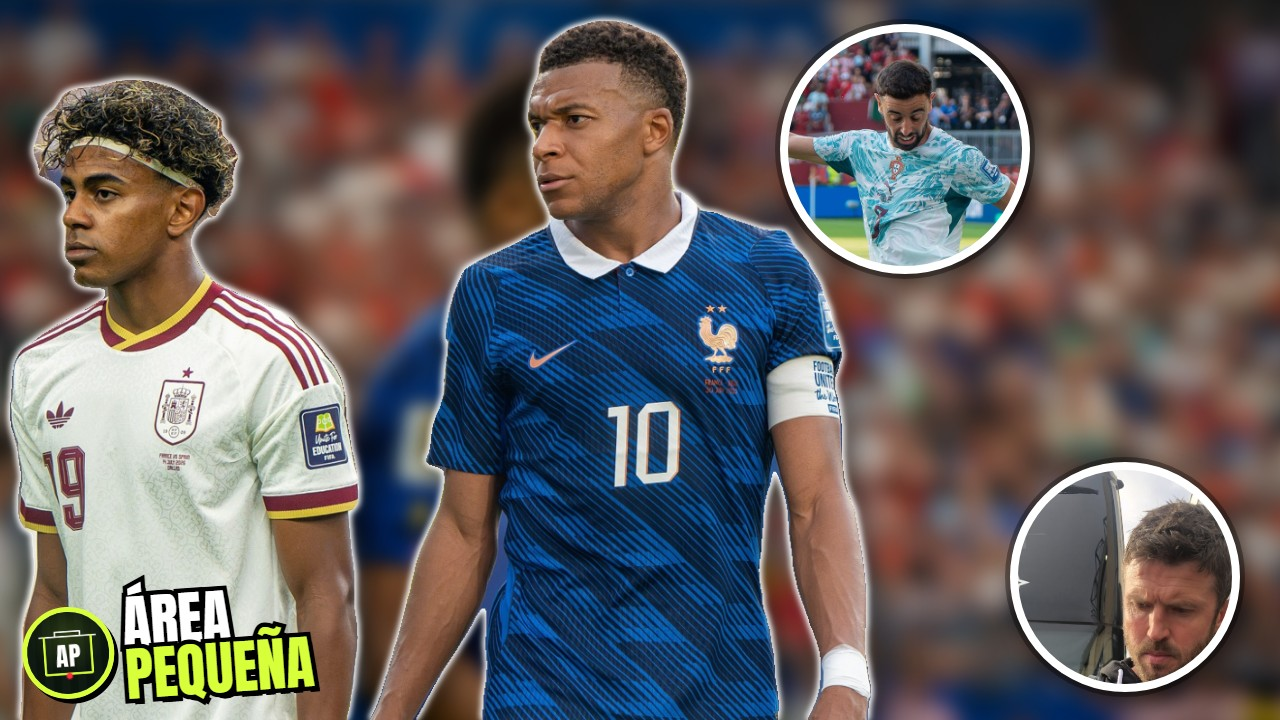
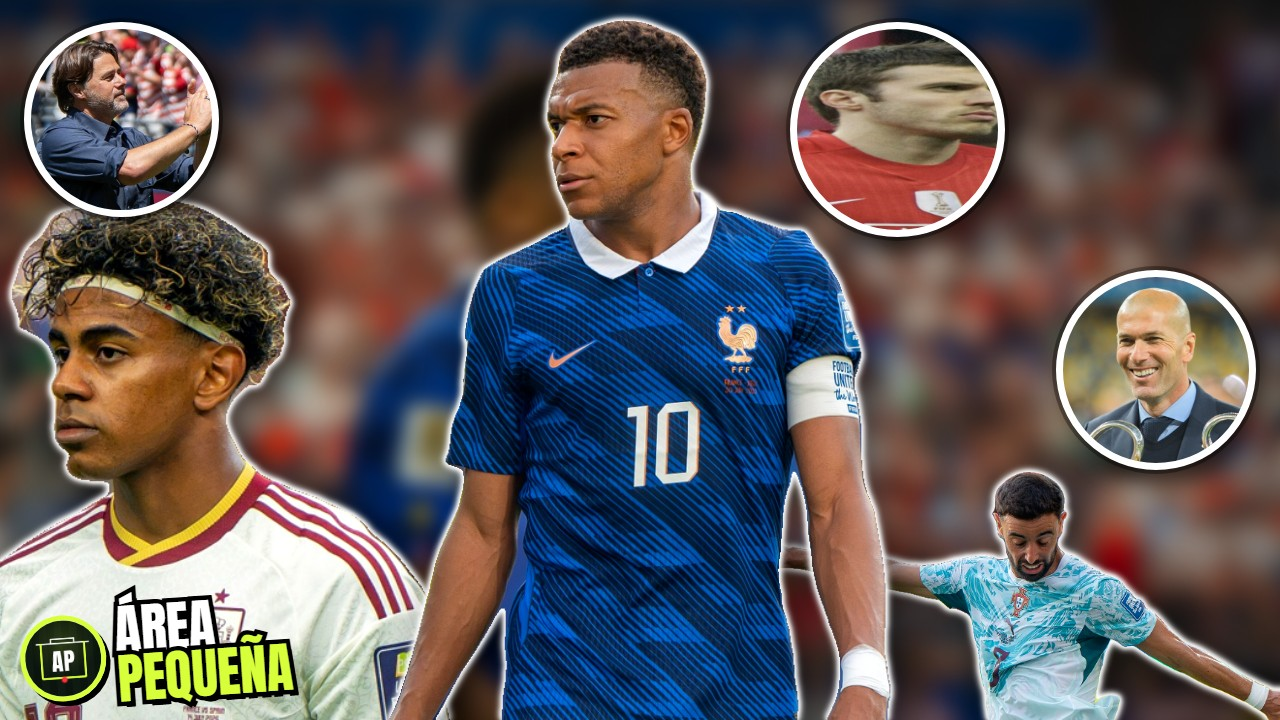
longo: titulo estilo Cracks, thumbnail v2 (3 jogadores, rostos nos circulos, escudos), prompt do Flow; fotos melhores do Carrick

diff --git a/modelo/thumb-longo.html b/modelo/thumb-longo.html
@@ -5,55 +5,55 @@
 @font-face{font-family:Inter;src:url(fonts/Inter.ttf);font-weight:100 900}
 *{margin:0;padding:0;box-sizing:border-box}
 html,body{width:1280px;height:720px;overflow:hidden;background:#0a0f0c}
-#fundo{position:absolute;inset:-40px;background:url(../assets/estadio-fundo.jpg) center/cover;filter:blur(var(--blur,9px)) saturate(1.15) brightness(.9)}
-#cor{position:absolute;inset:0;background:radial-gradient(ellipse at 50% 55%,transparent 45%,rgba(0,0,0,.45))}
-.pessoa{position:absolute;bottom:0;filter:drop-shadow(0 0 0 #fff) drop-shadow(0 0 3px #fff) drop-shadow(0 0 3px #fff) drop-shadow(10px 8px 18px rgba(0,0,0,.6))}
-#p1{left:var(--p1x,330px);height:var(--p1h,700px);z-index:3}
-#p2{left:var(--p2x,20px);height:var(--p2h,600px);z-index:2}
-#p3{right:var(--p3x,10px);height:var(--p3h,560px);z-index:2}
-.circ{position:absolute;width:250px;height:250px;border-radius:50%;overflow:hidden;border:8px solid #fff;z-index:4;
-  box-shadow:0 0 0 5px rgba(0,0,0,.35),8px 10px 22px rgba(0,0,0,.55);background:#ddd center/cover}
-#c1{top:24px;right:250px}
-#c2{bottom:28px;right:40px;width:230px;height:230px}
-#escudo{position:absolute;top:22px;right:24px;width:190px;height:190px;border-radius:50%;background:#fff center/78% no-repeat;z-index:5;
-  border:7px solid #fff;box-shadow:8px 10px 20px rgba(0,0,0,.5)}
-#escudo.x::after{content:"";position:absolute;inset:-10px;background:
-  linear-gradient(45deg,transparent 45%,#e3142a 45%,#e3142a 55%,transparent 55%),linear-gradient(-45deg,transparent 45%,#e3142a 45%,#e3142a 55%,transparent 55%)}
-#escudo.v::after{content:"✔";position:absolute;right:-14px;bottom:-26px;font:900 120px Inter;color:#2bd34a;-webkit-text-stroke:6px #0b3d14}
-#selo{position:absolute;left:22px;bottom:22px;z-index:6;display:flex;align-items:center;gap:10px;transform:rotate(-4deg)}
-#selo img{width:92px;height:92px;border-radius:50%;border:5px solid #d7ff3a;box-shadow:4px 5px 0 #000}
-#selo span{font-family:Anton,sans-serif;font-size:58px;line-height:.9;color:#fff;text-transform:uppercase;-webkit-text-stroke:9px #000;paint-order:stroke fill;
-  text-shadow:5px 6px 0 #000}
+#fundo{position:absolute;inset:-40px;background:url(../assets/estadio-fundo.jpg) center/cover;filter:blur(10px) saturate(1.25) brightness(.85)}
+#cor{position:absolute;inset:0;background:radial-gradient(ellipse at 50% 60%,transparent 40%,rgba(0,0,0,.5)),
+  linear-gradient(180deg,rgba(0,0,0,.15),transparent 30%,transparent 70%,rgba(0,0,0,.35))}
+/* pessoas recortadas: contorno branco + sombra, cores mais vivas */
+.pessoa{position:absolute;bottom:0;filter:saturate(1.18) contrast(1.06) drop-shadow(0 0 2px #fff) drop-shadow(0 0 3px #fff) drop-shadow(0 0 2px #fff) drop-shadow(12px 10px 20px rgba(0,0,0,.65))}
+#p1{left:50%;transform:translateX(-50%);height:var(--p1h,700px);z-index:4}
+#p2{left:var(--p2x,-20px);height:var(--p2h,600px);z-index:3}
+#p3{right:var(--p3x,-10px);height:var(--p3h,560px);z-index:3}
+.circ{position:absolute;border-radius:50%;overflow:hidden;border:7px solid #fff;z-index:5;background:#ddd center/cover;
+  box-shadow:0 0 0 4px rgba(0,0,0,.35),8px 10px 22px rgba(0,0,0,.6)}
+#c1{top:22px;left:calc(50% + 150px);width:215px;height:215px}
+#c2{bottom:250px;right:24px;width:200px;height:200px}
+#c3{top:22px;left:calc(50% - 365px);width:195px;height:195px}
+.esc{position:absolute;z-index:6;background:center/contain no-repeat;filter:drop-shadow(0 0 3px #fff) drop-shadow(0 0 3px #fff) drop-shadow(8px 10px 14px rgba(0,0,0,.6))}
+#e1{top:16px;right:16px;width:200px;height:200px}
+#e2{top:16px;left:16px;width:165px;height:165px}
+.esc.x::after{content:"";position:absolute;inset:6%;background:
+  linear-gradient(45deg,transparent 43%,#ff1a2d 43%,#ff1a2d 57%,transparent 57%),linear-gradient(-45deg,transparent 43%,#ff1a2d 43%,#ff1a2d 57%,transparent 57%);
+  filter:drop-shadow(0 0 2px #000) drop-shadow(0 0 2px #000)}
+.esc.v::after{content:"✔";position:absolute;right:-18px;bottom:-34px;font:900 130px/1 Inter;color:#22d94a;-webkit-text-stroke:7px #0b3d14;paint-order:stroke fill}
+#selo{position:absolute;left:20px;bottom:20px;z-index:7;display:flex;align-items:center;gap:10px;transform:rotate(-4deg)}
+#selo img{width:86px;height:86px;border-radius:50%;border:5px solid #d7ff3a;box-shadow:4px 5px 0 #000}
+#selo span{font-family:Anton,sans-serif;font-size:54px;line-height:.9;color:#fff;text-transform:uppercase;-webkit-text-stroke:9px #000;paint-order:stroke fill;text-shadow:5px 6px 0 #000}
 #selo span b{color:#d7ff3a;font-weight:400;display:block}
-#placar{position:absolute;z-index:6;top:250px;left:24px;display:grid;grid-template-columns:auto auto;gap:4px;background:#0b0b0b;border:5px solid #fff;border-radius:12px;padding:8px 12px;box-shadow:6px 7px 0 rgba(0,0,0,.6)}
-#placar div{font:400 54px/1 Anton;color:#fff;text-align:center}
-#placar img{width:56px;height:56px;object-fit:contain;background:#fff;border-radius:8px}
-#seta{position:absolute;z-index:6;width:220px;height:150px;overflow:visible}
 </style></head>
 <body>
 <div id="fundo"></div><div id="cor"></div>
-<img class="pessoa" id="p2"><img class="pessoa" id="p3"><img class="pessoa" id="p1">
-<div class="circ" id="c1"></div><div class="circ" id="c2"></div>
-<div id="escudo"></div>
+<img class="pessoa" id="p3"><img class="pessoa" id="p2"><img class="pessoa" id="p1">
+<div class="circ" id="c3"></div><div class="circ" id="c1"></div><div class="circ" id="c2"></div>
+<div class="esc" id="e2"></div><div class="esc" id="e1"></div>
 <div id="selo"><img src="../canal/perfil.png"><span>Área<b>Pequeña</b></span></div>
-<svg id="seta" viewBox="0 0 220 150"><path d="M200 20 C 170 120, 80 140, 30 100" fill="none" stroke="#000" stroke-width="34" stroke-linecap="round"/>
-<path d="M200 20 C 170 120, 80 140, 30 100" fill="none" stroke="#ff1f1f" stroke-width="22" stroke-linecap="round"/>
-<polygon points="0,80 70,55 60,130" fill="#ff1f1f" stroke="#000" stroke-width="7" stroke-linejoin="round"/></svg>
 <script>
-// hash: {fundo (foto com torcida, vai desfocada), p1,p2,p3 (recortes png), c1,c2 (fotos), escudo, marca:"x"|"v"|"", seta:{x,y,rot}|null, placar:{a,b,ga,gb}}
+// hash: {fundo, p1,p2,p3 (recortes png), c1,c2,c3 (fotos) + c1pos..., e1,e2 (escudos png) + e1marca ("x"|"v"), layout:{...}}
 const d = JSON.parse(decodeURIComponent(location.hash.slice(1) || '{}'));
 const css = document.documentElement.style;
 if (d.fundo) document.getElementById('fundo').style.backgroundImage = `url("${d.fundo}")`;
 for (const k of ['p1','p2','p3']) { const el = document.getElementById(k); if (d[k]) el.src = d[k]; else el.remove(); }
-for (const k of ['c1','c2']) { const el = document.getElementById(k); if (d[k]) el.style.backgroundImage = `url("${d[k]}")`; else el.remove();
-  if (d[k+'pos']) el.style.backgroundPosition = d[k+'pos']; }
-const es = document.getElementById('escudo');
-if (d.escudo) { es.style.backgroundImage = `url("${d.escudo}")`; if (d.marca) es.classList.add(d.marca); } else es.remove();
-const seta = document.getElementById('seta');
-if (d.seta) seta.style.cssText += `left:${d.seta.x}px;top:${d.seta.y}px;transform:rotate(${d.seta.rot||0}deg)`; else seta.remove();
+for (const k of ['c1','c2','c3']) { const el = document.getElementById(k); if (d[k]) { el.style.backgroundImage = `url("${d[k]}")`;
+  if (d[k+'pos']) el.style.backgroundPosition = d[k+'pos']; } else el.remove(); }
+for (const k of ['e1','e2']) { const el = document.getElementById(k); if (d[k]) { el.style.backgroundImage = `url("${d[k]}")`;
+  if (d[k+'marca']) el.classList.add(d[k+'marca']); } else el.remove(); }
+// sem escudo à esquerda, o círculo 3 sobe pro canto
+if (!d.e2) { const c3 = document.getElementById('c3'); if (c3) { c3.style.left = '24px'; } }
 for (const [k,v] of Object.entries(d.layout || {})) css.setProperty('--' + k, v);
 async function pronto(){ await document.fonts.ready;
   await Promise.all([...document.images].map(i => i.decode().catch(()=>{})));
+  // ninguém fica largo demais: limita a largura de cada recorte
+  for (const [k, max] of [['p1', 560], ['p2', 470], ['p3', 520]]) { const el = document.getElementById(k);
+    if (el && el.offsetWidth > max) { el.style.height = 'auto'; el.style.width = max + 'px'; } }
   document.title = 'ok'; }
 pronto();
 </script>

diff --git a/thumb_longo.py b/thumb_longo.py
@@ -42,7 +42,7 @@ def fotos_da_pessoa(nome, contexto=None):
         return []
     fs = [f for f in ent.get("fotos", []) if os.path.exists(os.path.join(banco.PASTA_FOTOS, f["arquivo"]))]
     ordem = {"selecao": 0 if contexto == "selecao" else 1, "clube": 0 if contexto != "selecao" else 1, "geral": 2}
-    fs.sort(key=lambda f: ordem.get(f.get("tipo"), 2))
+    fs.sort(key=lambda f: (ordem.get(f.get("tipo"), 2), -float(f.get("nota") or 0)))
     uniforme = [f for f in fs if f.get("tipo") != "geral"]
     return [os.path.join(banco.PASTA_FOTOS, f["arquivo"]) for f in (uniforme or fs)]
 
@@ -73,45 +73,171 @@ def melhor_recorte(nome, contexto=None):
     return melhores[0][0], melhores
 
 
+def busto(rec):
+    """Corpo inteiro fica pequeno na thumb: corta da cabeça até a cintura (como o Cracks)."""
+    im = Image.open(rec)
+    w, h = im.size
+    if h / max(w, 1) < 1.45:
+        return rec
+    destino = rec.replace(".png", "-busto.png")
+    if not os.path.exists(destino):
+        corte = im.crop((0, 0, w, int(h * 0.6)))
+        caixa = corte.getchannel("A").point(lambda v: 255 if v > 30 else 0).getbbox()
+        (corte.crop(caixa) if caixa else corte).save(destino)
+    return destino
+
+
+def rosto(foto):
+    """Quadrado centrado na cabeça da pessoa (pro círculo), a partir do recorte."""
+    try:
+        rec = recorte.recortar(foto)
+    except Exception:
+        return foto
+    destino = rec.replace(".png", "-rosto.jpg")
+    if os.path.exists(destino):
+        return destino
+    im = Image.open(foto).convert("RGB")
+    im.thumbnail((1400, 1400))
+    from rembg import remove  # noqa: F401  (só pra garantir que o recorte veio do mesmo tamanho)
+    r = Image.open(rec)
+    a = np.array(r.getchannel("A")) > 40
+    # o recorte foi cortado na caixa da pessoa: reencontra a posição dela na foto pelo tamanho
+    W, H = im.size
+    mask_full = np.array(recorte_mascara(foto, im.size))
+    ys, xs = np.nonzero(mask_full)
+    if len(xs) == 0:
+        return foto
+    topo, base, esq, dir_ = ys.min(), ys.max(), xs.min(), xs.max()
+    larg, alt = dir_ - esq, base - topo
+    if alt > 0.6 * H and larg > 0.45 * W:   # foto de busto/rosto: quase a foto inteira
+        lado = int(min(W, H) * 0.85)
+    else:                                   # corpo inteiro pequeno: só cabeça e ombros
+        lado = int(min(max(min(larg * 0.75, alt * 0.42), 120), W, H))
+    linha_cabeca = mask_full[topo:topo + max(lado // 2, 1)]
+    cx = int(np.nonzero(linha_cabeca.any(axis=0))[0].mean()) if linha_cabeca.any() else (esq + dir_) // 2
+    x0 = int(min(max(cx - lado / 2, 0), W - lado))
+    y0 = int(min(max(topo - lado * 0.06, 0), H - lado))
+    im.crop((x0, y0, x0 + lado, y0 + lado)).resize((500, 500), Image.LANCZOS).save(destino, quality=92)
+    return destino
+
+
+def recorte_mascara(foto, tamanho):
+    from rembg import remove, new_session
+    global _sess
+    try:
+        _sess
+    except NameError:
+        _sess = new_session("u2net_human_seg")
+    im = Image.open(foto).convert("RGB").resize(tamanho)
+    m = np.array(remove(im, session=_sess, only_mask=True, post_process_mask=True)) > 100
+    try:
+        import cv2
+        n, lab, stats, _ = cv2.connectedComponentsWithStats(m.astype(np.uint8), 8)
+        if n > 2:
+            w = m.shape[1]
+            melhor = max(range(1, n), key=lambda i: stats[i, cv2.CC_STAT_AREA] / (1 + abs((stats[i, 0] + stats[i, 2] / 2) / w - 0.5) * 2))
+            m = lab == melhor
+    except ImportError:
+        pass
+    return m
+
+
+def escudo_png(clube):
+    """Escudo oficial (Wikidata P154) em PNG transparente, guardado em banco/escudos-png/."""
+    import urllib.parse
+    pasta = os.path.join(BASE, "banco", "escudos-png")
+    os.makedirs(pasta, exist_ok=True)
+    arq = os.path.join(pasta, banco._nome_arquivo(clube) + ".png")
+    if os.path.exists(arq):
+        return arq
+    try:
+        nome, logo = banco._info_clube(clube)
+        if not logo:
+            print(f"  ! sem escudo no Wikidata: {clube}")
+            return None
+        url = "https://commons.wikimedia.org/wiki/Special:FilePath/" + urllib.parse.quote(logo.replace(" ", "_")) + "?width=600"
+        import io
+        im = Image.open(io.BytesIO(banco.fotos._get(url))).convert("RGBA")
+    except Exception as e:
+        print(f"  ! escudo {clube} falhou: {str(e)[:80]}")
+        return None
+    caixa = im.getchannel("A").getbbox()
+    (im.crop(caixa) if caixa else im).save(arq)
+    return arq
+
+
+def escolhas(rot):
+    """Quem aparece: o bloco longo.thumb do roteiro (escolhido pela rotina) ou, sem ele, as pessoas dos shorts."""
+    t = (rot.get("longo") or {}).get("thumb") or {}
+    ctx = {nome_pessoa(s): s.get("contexto") for s in rot["shorts"]}
+    pessoas = [nome_pessoa(s) for s in rot["shorts"] if nome_pessoa(s)]
+    grandes = t.get("grandes") or pessoas[:3]
+    circulos = t.get("circulos") or [p for p in pessoas if p not in grandes][:3]
+    escudos = t.get("escudos") or []
+    return grandes, circulos, escudos, ctx
+
+
+def escrever_prompt_flow(pasta, rot, grandes, circulos, escudos):
+    """Prompt pronto pra melhorar a thumbnail no Flow (Google), usando a nossa como base."""
+    longo = rot.get("longo") or {}
+    clubes = ", ".join(f"{e.get('clube')} ({'red X over it' if e.get('marca') == 'x' else 'green check mark' if e.get('marca') == 'v' else 'no mark'})"
+                       for e in escudos if e.get("clube")) or "none"
+    txt = f"""COMO USAR NO FLOW
+1. Imagem 1: thumb.jpg (esta pasta) = a base. Imagens 2 e 3: duas thumbnails do Cracks (só como referência de estilo).
+2. Cole o prompt abaixo. Gere 4 versões e escolha a melhor; se mudar o rosto de alguém, descarte.
+3. Suba no YouTube Studio > vídeo longo do dia > Miniatura.
+
+PROMPT (cole tudo):
+Edit image 1 into a high-impact YouTube thumbnail for a Spanish football news video, 16:9, 1280x720.
+Keep EXACTLY the same people, faces, hair, kits and positions from image 1 - do not change anyone's face or identity, do not add new people.
+Main figure in the center: {grandes[0] if grandes else ''}. Other large figures: {', '.join(grandes[1:]) or 'none'}. Small circle portraits: {', '.join(circulos) or 'none'}.
+Copy only the LOOK of images 2 and 3 (style references, do not copy their people, logos or text):
+- background: packed football stadium crowd at night, strong depth-of-field blur, warm stadium lights and soft light flares
+- every cut-out person has a thin clean white outline, crisp edges, strong rim light, punchy saturated colors and high contrast
+- circle portraits with thick white borders and drop shadows, faces centered and sharp
+- club crests: {clubes}; keep crests flat and accurate
+- keep the "AREA PEQUEÑA" badge in the bottom-left corner exactly as it is
+No other text, no titles, no watermarks. Photorealistic, sharp, professional sports-news thumbnail.
+
+Título do vídeo (pra conferir que a imagem combina): {longo.get('titulo_yt', '')}
+"""
+    with open(os.path.join(pasta, "prompt-flow.txt"), "w", encoding="utf-8") as f:
+        f.write(txt)
+
+
 def gerar(dia):
     rot = json.load(open(os.path.join(BASE, "roteiros", f"{dia}.json"), encoding="utf-8"))
-    shorts = rot["shorts"]
-    usados, grandes, todas = set(), [], []
-    for s in shorts:
-        nome = nome_pessoa(s)
-        if not nome or nome in usados:
+    g_nomes, c_nomes, escudos, ctx = escolhas(rot)
+    grandes, todas, usados = [], [], set()
+    for nome in g_nomes:
+        if len(grandes) == 3 or nome in usados:
             continue
-        rec, lista = melhor_recorte(nome, s.get("contexto"))
+        rec, lista = melhor_recorte(nome, ctx.get(nome))
         todas += lista
         if rec:
             usados.add(nome)
-            grandes.append((nome, rec, lista))
-        if len(grandes) == 2:
-            break
+            grandes.append((nome, rec))
     circulos = []
-    for s in shorts:
-        nome = nome_pessoa(s)
-        if not nome or nome in usados:
+    for nome in c_nomes + [n for n in g_nomes if n not in usados]:
+        if len(circulos) == 3 or nome in usados:
             continue
-        fs = fotos_da_pessoa(nome, s.get("contexto"))
+        fs = fotos_da_pessoa(nome, ctx.get(nome))
         if fs:
             usados.add(nome)
             circulos.append(fs[0])
-        if len(circulos) == 2:
-            break
     if not grandes:
         raise SystemExit("sem recorte de nenhum jogador: thumbnail não gerada")
-    # fundo: a foto com MENOS gente na frente (mais torcida/estádio)
     fundo = min(todas, key=lambda x: x[2])[3] if todas else os.path.join(BASE, "assets", "estadio-fundo.jpg")
     u = navegador.url_arquivo
-    d = {"fundo": u(fundo), "p1": u(grandes[0][1]),
-         "layout": {"p1x": "370px", "p2x": "10px", "p1h": "700px", "p2h": "640px"}}
-    if len(grandes) > 1:
-        d["p2"] = u(grandes[1][1])
-    else:
-        d["layout"]["p1x"] = "240px"
-    for k, f in zip(("c1", "c2"), circulos):
-        d[k], d[k + "pos"] = u(f), "50% 28%"
+    d = {"fundo": u(fundo), "layout": {}}
+    for k, (_, rec) in zip(("p1", "p2", "p3"), grandes):
+        d[k] = u(busto(rec))
+    for k, f in zip(("c1", "c2", "c3"), circulos):
+        d[k], d[k + "pos"] = u(rosto(f)), "50% 40%"
+    for k, e in zip(("e1", "e2"), escudos[:2]):
+        png = escudo_png(e.get("clube", "")) if e.get("clube") else None
+        if png:
+            d[k], d[k + "marca"] = u(png), e.get("marca", "")
     pasta = os.path.join(BASE, "saida", dia)
     os.makedirs(pasta, exist_ok=True)
     png = os.path.join(pasta, "_thumb.png")
@@ -119,7 +245,9 @@ def gerar(dia):
     destino = os.path.join(pasta, "thumb.jpg")
     Image.open(png).convert("RGB").save(destino, "JPEG", quality=90)
     os.remove(png)
-    print(f"thumb: {destino}  (grandes: {[g[0] for g in grandes]}, círculos: {len(circulos)}, fundo: {os.path.basename(fundo)})")
+    escrever_prompt_flow(pasta, rot, [g[0] for g in grandes], c_nomes[:3], escudos[:2])
+    print(f"thumb: {destino}  (grandes: {[g[0] for g in grandes]}, círculos: {len(circulos)}, "
+          f"escudos: {[e.get('clube') for e in escudos[:2]]}, fundo: {os.path.basename(fundo)})")
     return destino
 
 

diff --git a/banco.py b/banco.py
@@ -131,7 +131,7 @@ def abastecer(nome, log=print, forcar=False):
     ts = times(info["id"])
     ent["times"] = [{k: t[k] for k in ("id", "nome", "atual", "selecao", "base", "logo")} for t in ts]
     ref = fotos.rosto_oficial(nome, info)
-    ja = {f["origem"] for f in ent["fotos"]}
+    ja = {f["origem"] for f in ent["fotos"]} | set(ent.get("bloqueadas", []))
     conta = {}
     for f in ent["fotos"]:
         conta[f["contexto"]] = conta.get(f["contexto"], 0) + 1
@@ -180,6 +180,54 @@ def abastecer(nome, log=print, forcar=False):
     ent["abastecido"] = _hoje() if ent["fotos"] else None   # sem foto: tenta de novo na próxima
     _gravar(idx)
     return ent
+
+
+def bloquear(nome, trecho):
+    """Tira do banco as fotos da pessoa cujo arquivo contém `trecho` e nunca mais baixa de novo (foto feia/errada)."""
+    idx = _ler()
+    ent = _entrada(idx, nome)
+    fora = [f for f in ent["fotos"] if trecho in f["arquivo"]]
+    ent["fotos"] = [f for f in ent["fotos"] if f not in fora]
+    ent.setdefault("bloqueadas", []).extend(f["origem"] for f in fora)
+    for f in fora:
+        try:
+            os.remove(os.path.join(PASTA_FOTOS, f["arquivo"]))
+        except OSError:
+            pass
+    _gravar(idx)
+    return [f["arquivo"] for f in fora]
+
+
+def adicionar_manual(nome, pagina_commons, contexto="Geral", tipo="geral"):
+    """Põe no banco uma foto escolhida à mão do Wikimedia Commons (ex.: "File:Michael Carrick - July 2015 (cropped).jpg")."""
+    idx = _ler()
+    ent = _entrada(idx, nome)
+    info = fotos.pessoa(nome)
+    ref = fotos.rosto_oficial(nome, info)
+    d = fotos._api("https://commons.wikimedia.org/w/api.php", action="query", format="json", titles=pagina_commons,
+                   prop="imageinfo", iiprop="url|extmetadata", iiurlwidth=2000, iiextmetadatafilter="Artist|LicenseShortName")
+    pg = list(d["query"]["pages"].values())[0]
+    if "imageinfo" not in pg:
+        raise SystemExit(f"não achei {pagina_commons} no Commons")
+    ii = pg["imageinfo"][0]
+    meta = ii.get("extmetadata") or {}
+    autor = re.sub(r"<[^>]+>", "", (meta.get("Artist") or {}).get("value", "")).strip()[:50]
+    lic = (meta.get("LicenseShortName") or {}).get("value", "")
+    c = {"url": ii.get("thumburl") or ii["url"], "pagina": ii.get("descriptionurl", pagina_commons),
+         "titulo": pg["title"], "credito": (f"{autor} / " if autor else "") + "Wikimedia Commons" + (f", {lic}" if lic else "")}
+    img = fotos._imagem(c["url"])
+    av = fotos._avaliar_jogador(img, ref, c) or (1.0, None)
+    caixa = fotos.recorte(img, av[1]) if av[1] is not None else (0, 0, img.shape[1], img.shape[0])
+    corte = img[caixa[1]:caixa[1] + caixa[3], caixa[0]:caixa[0] + caixa[2]]
+    corte = cv2.resize(corte, (fotos.SAIDA_L, fotos.SAIDA_A), interpolation=cv2.INTER_AREA)
+    n = sum(1 for f in ent["fotos"] if f["contexto"] == contexto) + 1
+    arq = _nome_arquivo(f"{nome} - {contexto} - m{n}.jpg")
+    _salvar_jpg(corte, os.path.join(PASTA_FOTOS, _nome_arquivo(nome), arq))
+    ent["fotos"].append({"arquivo": f"{_nome_arquivo(nome)}/{arq}", "contexto": contexto, "tipo": tipo,
+                         "credito": c["credito"], "origem": c["pagina"], "nota": 9.9, "ultimo_uso": None,
+                         "usos": 0, "adicionada": _hoje(), "manual": True})
+    _gravar(idx)
+    return arq
 
 
 # ---------------------------------------------------------------- escudos

diff --git a/ROTINA.md b/ROTINA.md
@@ -29,7 +29,10 @@ Trabalhe sozinho, sem perguntar nada. Não instale nada.
 - `data` (AAAA-MM-DD de hoje), `fonte` ("MARCA, AS, Mundo Deportivo" + link do Cracks se usou), `shorts`: `shorts_por_dia` itens, ids "01","02",…, com as horas de `horas_shorts` na ordem.
 - As notícias mais fortes do dia, na ordem de força (a mais forte às 10:00). Sempre faça a quantidade do config: há notícias de sobra nas fontes; nunca complete inventando.
 - Cada short: `tag` ("Selección · España", "Mercado · Barça", "Premier League"…), `titulo` (até ~60 caracteres, com UMA `*palavra*` de destaque), `texto` (45–70 palavras, nomes em `**negrito**`), `foto_busca` (lista em ordem: nome completo da pessoa principal como está na Wikipedia; depois `"#Nome oficial do clube"` para o escudo; e SEMPRE termine com um `"~cenário"`, ex. `"~Estadio Santiago Bernabéu"`, como última opção), `contexto` ("selecao" se é notícia de seleção, senão "clube"), `titulo_yt` (chamativo, até 90 caracteres, 1 emoji), `descricao` (1–2 frases + pergunta pro público + "Fuente: …"), `fonte` (link da matéria), `hashtags` (5).
-- Acrescente no fim: `"longo": {"hora": <hora_longo do config>, "titulo_yt": "RESUMEN DEL DÍA: <3 assuntos curtos> | DD/MM", "descricao": "<3-4 frases com os assuntos + convite pra se inscrever>", "tags": ["futbol", "noticias de futbol", ...até 12]}`.
+- Acrescente no fim: `"longo": {"hora": <hora_longo do config>, "titulo_yt": ..., "descricao": ..., "tags": [...até 12], "thumb": {...}}`:
+  - **`titulo_yt` no estilo do Cracks** (até 100 caracteres, SEM data e SEM "Resumen del día"): 4 ou 5 ganchos curtos separados por ` | `, do mais forte pro menos forte. O primeiro, se houver, é uma **frase literal forte entre aspas** (ou uma revelação); misture **pergunta** (`¿…?`), **exclamação** (`¡…!`), **número/valor** (`¡100M por…!`), nomes de estrelas e verbos fortes (*frenó, explota, rechaza, humilla, señala, vuelve*). Exemplos reais do formato: `"Zidane frenó a Mbappe" | Roma no quiere a Balde | Carrick fuera, Poch listo | ¿Cabezazo peligroso?` · `Lamine supera a todos | Vini es "uno más" para Mou | ¿Salvan a Carrick? | Bayern exige a Musiala`. Tudo verdadeiro e das fontes: chamativo, nunca enganoso.
+  - `descricao`: 1 linha por assunto do vídeo (bloco 1 e 2) + convite pra se inscrever + "Fuentes: MARCA, AS, Mundo Deportivo".
+  - **`thumb`** (a thumbnail é o que faz clicar): `{"grandes": [3 nomes], "circulos": [2 ou 3 nomes], "escudos": [{"clube": "<nome oficial>", "marca": "x"|"v"|""}]}`. `grandes` = os 3 protagonistas mais famosos/quentes do vídeo (o 1º fica no centro, maior); `circulos` = outros envolvidos; `escudos` = até 2 clubes centrais das notícias, `"x"` se a notícia é de rejeição/saída/derrota, `"v"` se é de acerto/chegada, `""` se neutro. Nomes exatamente como na Wikipedia.
 
 ## Passo 3 — vídeo longo: `longo/roteiros/longo-dia-XX.json` (6 a 10 minutos)
 Siga a estrutura de `longo/roteiros/prototipo.json`. O longo é o **resumo completo do dia**, bem maior que os shorts:
@@ -40,7 +43,7 @@ Siga a estrutura de `longo/roteiros/prototipo.json`. O longo é o **resumo compl
 - **Bloco 2 — "Más noticias del día": mais 5 a 8 assuntos quentes** das fontes que NÃO viraram short (outros clubes grandes, seleções, Premier/Serie A, mercado, frases fortes, resultados de ontem). Para cada um: 2 a 3 cenas `foto` (a primeira com `tag` do assunto e `titulo` de manchete) com `"pessoa"` = protagonista (nome como na Wikipedia) e `contexto`; `cita`/`numero` se houver. Sem pessoa clara → cena `foto` com `"pessoa"` do técnico/craque do clube citado na matéria; se nem isso, `"tipo": "fotoless"` com `titulo`.
 - Cena `cierre` (tag "Área Pequeña FC", titulo "Noticias *cada día*", voz convidando a se inscrever, ativar a campanita e comentar).
 - Narração de apresentador: transições curtas e variadas ("Pasamos a…", "Y ojo con esto…", "Mientras tanto en Inglaterra…"). Números por extenso na `voz`. **Tudo das fontes, nada inventado.**
-- Atualize também o `longo.titulo_yt` do dia-XX.json com 3 assuntos e a `descricao` com a lista de todos os assuntos e "Fuentes: MARCA, AS, Mundo Deportivo".
+- Confira se o `longo.titulo_yt`, a `descricao` e o `thumb` do dia-XX.json cobrem os assuntos mais fortes do vídeo (inclusive os do bloco 2).
 
 ## Passo 4 — validar
 ```bash
